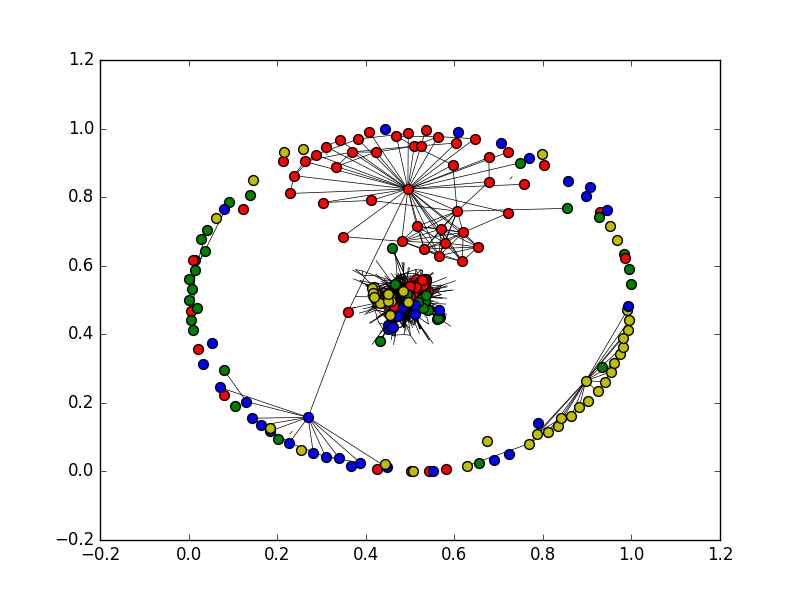
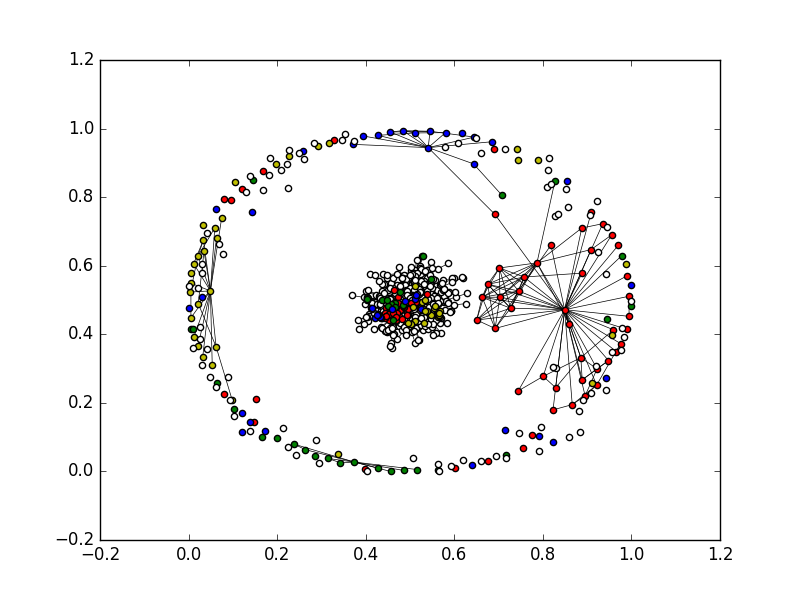
plot

Changed region(s): [[0.2188, 0.21, 0.8125, 0.81], [0.4062, 0.39, 0.4375, 0.42]]

diff --git a/plot.py b/plot.py
@@ -22,10 +22,10 @@ def plot(nodes, edges, group, suffix):
 	G.add_edges_from(edges)
 	pos = nx.spring_layout(G)
 
-	# nx.draw_networkx_nodes(G, pos, nodelist=[node for node in nodes if node not in group], node_color='w', node_size=50)
+	nx.draw_networkx_nodes(G, pos, nodelist=[node for node in nodes if node not in group], node_color='w', node_size=20)
 	for g_id, color in colors:
 		nx.draw_networkx_nodes(G, pos, nodelist=[node for node in nodes if node in group and group[node] == g_id],
-		                       node_color=color, node_size=50)
+		                       node_color=color, node_size=20)
 	nx.draw_networkx_edges(G, pos, width=0.5)
 	plt.savefig(cwd + suffix + '.png')
 
